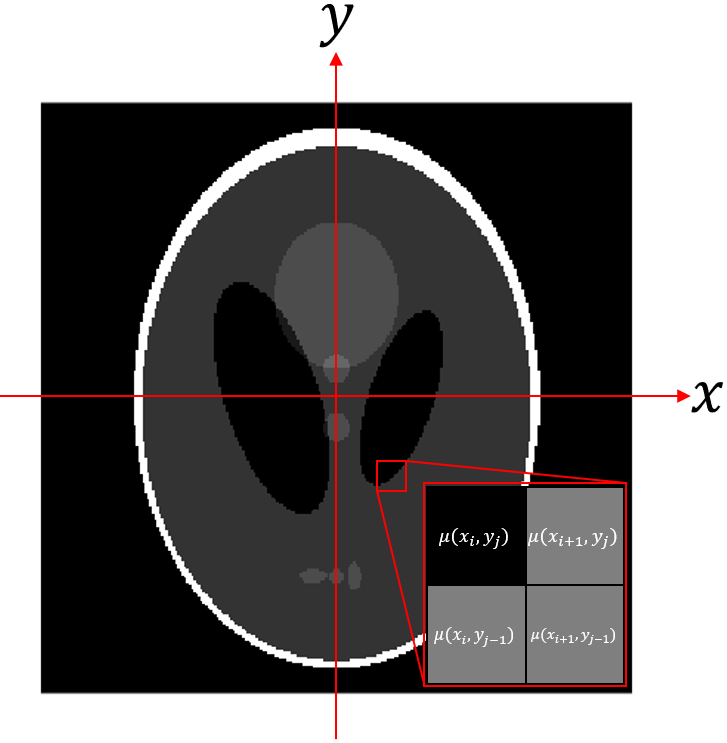
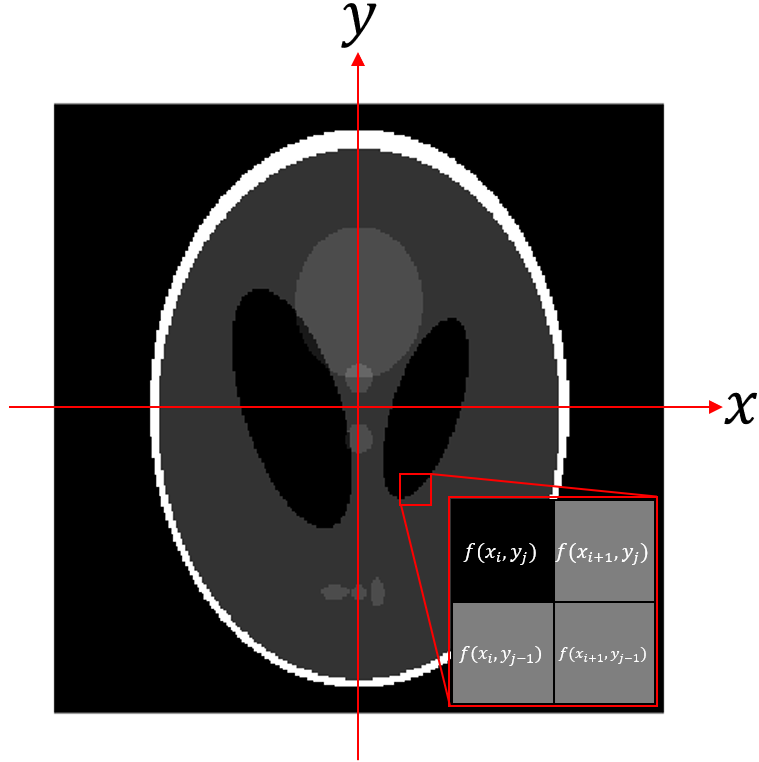
CT_5, CT_6 update

diff --git a/_posts/2025-07-03-CT_5.md b/_posts/2025-07-03-CT_5.md
@@ -88,7 +88,7 @@ This is shown below.
   margin_bottom = "-4.5em"
   %}
   Imagine the object we want to scan (the patient's cross-section) exists in a fixed, standard (x, y) coordinate system. 
-  The value at any point is given by its LAC, $\mu(x,y)$.
+  The value at any point is given by its LAC, $f(x,y)$ in the fixed patient system $(x,y)$.
   {% include end-side-by-side.html %}
  {% include end-box.html %}
 
@@ -104,6 +104,7 @@ This is shown below.
   Let's introduce our second coordinate system, $(\xi, \eta)$. 
   The crucial part is that this system rotates with the X-ray source and detector. 
   The angle of this rotation, relative to the fixed $(x, y)$ system, is $\gamma$ ($\in [0, 2\pi]$).
+  In this rotating coordinate systme $(\xi, \eta)$, we can rewrite the value on object, $f(x,y)$, into $\mu(\xi, \eta)$.
   {% include end-side-by-side.html %}
  {% include end-box.html %}
 
@@ -117,7 +118,7 @@ This is shown below.
   %}
   The Radon transform mathematically simulates what a single detector "sees". For a given projection angle $\gamma$ ($\in [0, 2\pi]$):
   * It defines a straight line, L, through the object. This line is parallel to the $\eta$-axis and is offset from the center by a distance $\xi_i$. Think of this line as the path of a single X-ray beam.
-  * It then sums up (integrates) all the object's pixel values ($\mu(x,y)$) that lie directly on this line L.
+  * It then sums up (integrates) all the object's pixel values ($\mu(\xi, \eta)$) that lie directly on this line L.
   * This sum becomes a single data point in our sinogram, $p(\xi_i, \gamma)$,corresponding to the detector at position $\xi_i$.
   
   This entire process is repeated for all possible lines (all $\xi$ values) across the object to create one full row of the sinogram for that specific angle $\gamma$. In essence, the Radon Transform is the mathematical way of describing how an object casts an "X-ray shadow" from a specific angle.
@@ -127,11 +128,11 @@ This is shown below.
 {% include end-box.html %}
 
 ## 2-2) Mathematical equation of Radon transform
-So, how do we practically calculate $p(\xi, \gamma)$, the line integral of $\mu(x,y)$?<br> 
+So, how do we practically calculate $p(\xi, \gamma)$, the line integral of $f(x,y)$?<br> 
 The mathematical definition is:<br>
 
 <div class="math-box" markdown="1">
-<center>$$p_{\gamma}(\xi) = p(\xi, \gamma) = \int_{\mathbf{r} \in L(x,y)} \mu(\mathbf{r}) \, d\mathbf{r}, \quad \text{where } \mathbf{r}=\begin{pmatrix}x \\ y \end{pmatrix} \tag{2.1}$$</center>
+<center>$$p_{\gamma}(\xi) = p(\xi, \gamma) = \int_{\mathbf{r} \in L(x,y)} f(\mathbf{r}) \, d\mathbf{r}, \quad \text{where } \mathbf{r}=\begin{pmatrix}x \\ y \end{pmatrix} \tag{2.1}$$</center>
 </div>
 
 $$p_{\gamma}(\xi) = \mathcal{R}_2 \{ f(x,y) \}$$ is called 2D Radon transform.
@@ -166,8 +167,9 @@ The Radon transform, $p(\xi, \gamma)$, can now be expressed in the much more con
 <div class="math-box" markdown="1">
 <center>$$\begin{split}
 p(\xi, \gamma) &= p_{\gamma}(\xi) \\
-&= \int_{\mathbf{r} \in L(x,y)} \mu(\mathbf{r}) d\mathbf{r}\\
-&= \int \mu(\xi \cos \gamma - \eta \sin \gamma, \xi \sin \gamma + \eta \cos \gamma) d\eta\
+&= \int_{\mathbf{r} \in L(x,y)} f(\mathbf{r}) \mathrm{d}\mathbf{r}\\
+&= \int \mu(\xi \cos \gamma - \eta \sin \gamma, \xi \sin \gamma + \eta \cos \gamma) \mathrm{d}\eta \\
+&= \int \mu(\xi, \eta, E) \mathrm{d}\eta
 \end{split} \tag{2.3}$$</center>
 </div>
 
@@ -178,7 +180,7 @@ First, let's recall from [4. Probability of detection] that the expected number 
 From this, we derived that the expected number of photons that transmit through the object is:
 
 <div class="math-box" markdown="1">
-<center>$$\text{Number of transmitted photons, }\lambda = \int N_0 S_0(E) e^{-\int \mu_a(\mathbf{r}, E) d\mathbf{r}} dE \tag{2.4}$$</center>
+<center>$$\text{Number of transmitted photons, }\lambda = \int N_0 S_0(E) e^{-\int \mu(\xi, \eta, E) \mathrm{d}\eta} dE \tag{2.4}$$</center>
 </div>
 
 This integral is still complex. 
@@ -186,9 +188,9 @@ To simplify it and connect it directly to the line integral of the Radon transfo
 
 {% include start-box.html class="math-box"%}
 $$\begin{split}
-\lambda &= \int_{E_1}^{E_2} N_0 S_0(E) e^{-\int \mu_a(\mathbf{r}, E) d\mathbf{r}} dE \\
-&= e^{-\int \mu_a(\mathbf{r}, \hat{E}) d\mathbf{r}} \int_{E_1}^{E_2} N_0 S_0(E) dE \\
-&= e^{-\int \mu_a(\mathbf{r}, \hat{E}) d\mathbf{r}} \lambda_0 \quad \text{where, } \lambda_0 = N_0: \text{the expected number of incident photons}
+\lambda &= \int_{E_1}^{E_2} N_0 S_0(E) e^{-\int \mu(\xi, \eta, E) \mathrm{d}\eta} dE \\
+&= e^{-\int \mu(\xi, \eta, \hat{E}) \mathrm{d}\eta} \int_{E_1}^{E_2} N_0 S_0(E) dE \\
+&= e^{-\int \mu(\xi, \eta, \hat{E}) \mathrm{d}\eta} \lambda_0 \quad \text{where, } \lambda_0 = N_0: \text{the expected number of incident photons}
 \end{split} \tag{2.5}$$
 
  {% include start-box.html class="math-box-inner" font_size="0.8em" %}
@@ -203,7 +205,7 @@ Here, $E_1$ and $E_2$ are the minimum and maximum photon energies, and $\lambda_
 By taking the natural logarithm and rearranging the equation, we can isolate the term we are truly interested in:
 
 {% include start-box.html class="math-box"%}
-<center>$$-\ln \left( \frac{\lambda}{\lambda_0} \right) = \int \mu_a(\mathbf{r}, \hat{E}) d\mathbf{r} \tag{2.5}$$</center>
+<center>$$-\ln \left( \frac{\lambda}{\lambda_0} \right) = \int \mu(\xi, \eta, \hat{E}) \mathrm{d}\eta \tag{2.6}$$</center>
  {% include start-box.html class="math-box-inner" font_size="0.8em" %}
  This equation is the very foundation of CT reconstruction:
  * The left side is a value we can measure. It's calculated from the initial number of photons ($\lambda_0$) and the number of photons that our detector measures ($\lambda$).
@@ -217,7 +219,7 @@ However, the equation so far is for an ideal case.
 In reality, we must account for quantum noise, $\epsilon$, in the number of transmitted photons, $\lambda$.
 
 <div class="math-box" markdown="1">
-<center>$$\text{Practical Radon transform}: -\ln \left( \frac{\lambda + \epsilon}{\lambda_0} \right) = \int \mu_a(\mathbf{r}, \hat{E}) d\mathbf{r} \tag{2.6}$$</center>
+<center>$$\text{Practical Radon transform}: -\ln \left( \frac{\lambda + \epsilon}{\lambda_0} \right) = \int \mu(\xi, \eta, \hat{E}) \mathrm{d}\eta \tag{2.7}$$</center>
 </div>
 
 Up to this point, we have successfully linked the incident photons to the Radon transform, which represents attenuation. 
@@ -227,7 +229,7 @@ This $\hat{E}$ affects the Radon transform in the following way.
 When we calculate a single projection $p_i$, the formula looks like this:
 
 <div class="math-box" markdown="1">
-<center>$$p_i = -\ln \frac{\lambda_i + \epsilon_i}{\lambda_0} \approx \int \mu_a (\mathbf{r}, \hat{E}_i) \, d\mathbf{r} \tag{2.7}$$</center>
+<center>$$p_i = -\ln \left( \frac{\lambda_i + \epsilon_i}{\lambda_0} \right) \approx \int \mu(\xi, \eta, \hat{E}) \mathrm{d}\eta \tag{2.8}$$</center>
 </div>
 
 The core problem is that the effective energy $\hat{E}_i$ is not a constant. 

diff --git a/_posts/2025-07-08-CT_6.md b/_posts/2025-07-08-CT_6.md
@@ -119,6 +119,7 @@ However, the Fourier transform does not change the nature of the coordinate syst
 This means that in step 2 a change in coordinates has to be carried out because the Radon transform $p_{\gamma}(\xi)$ and its Fourier transform $P_{\gamma}(q)$ are given in polar coordinates $(\xi, \gamma)$ and $(q,\gamma)$ respectively. 
 Figure below shows this relation. 
 
+{% include start-box.html class="math-box"%}
 <figure style="display: flex; flex-direction: column; align-items: center; margin-top: 0.5em; margin-bottom: 0.5em;">
   <img src="../images/2025-07-08-CT_6/image-20250708165149058.png" alt="Illustration of photoelectric interaction" 
        style="width: 70%; height: auto;">
@@ -127,19 +128,72 @@ Figure below shows this relation.
    </figcaption>
 </figure> 
 
+The spatial vector $\mathbf{\xi} = \xi(\xi, \gamma)$ points in the same direction as the spectral vector $\mathbf{q} = \mathbf{q}(q,\gamma)$.
+This is due to the rotational variance of the Fourier transform.
+As shown in Fig.1.2, we can make relationship between $\mathbf{q}$ and $(u,v)$ as below:
+<center>$$ \begin{split} u=q \cos (\gamma) \\ v = q \sin (\gamma) \end{split} \tag{1.6} $$</center>
+{% include end-box.html %}
+
 The transformations in the vertical direction are given by the Fourier transform in each case.
 The transformation from left to right is given by a change in coordinates from polar to Cartesian.
-
-As shown in Fig.1.2, the spatial vector $\mathbf{\xi} = \mathbf{\xi}(\xi, \gamma)$ points in the same direction as the spectral vector $\mathbf{q} = \mathbf{q}(q, \gamma)$. This is due to the rotational variance of the Fourier transform.
 
 With these key ideas in mind, let's now examine the Fourier Slice Theorem step-by-step.
 
 # 2.Fourier Slice Theorem
 
+## 2-1) Step 1: Calculate $P_{\gamma}(q)$, the Fourier transform of $p_{\gamma}(\xi)$
+As a first step of the Fourier Slice Theorem, let's calculate $P_{\gamma}(q)$.
+
+{% include start-box.html class="math-box"%}
+<center>$$P_{\gamma}(q) = \int_{-\infty}^{\infty} p_{\gamma}(\xi) e^{-2\pi i q \xi} \mathrm{d}\xi \tag{2.1}$$</center>
+{% include end-box.html %}
+
+It is important to remember that $P_{\gamma}(q)$ in equation (2.1) is calculated from the projection measurement, which is the line integral, as shown below:
+
+{% include start-box.html class="math-box"%}
+<center>$$ P_{\gamma}(q) = \int_{-\infty}^{\infty} \left( \int_{-\infty}^{\infty} \mu(\xi, \eta) d\eta \right) e^{-2\pi i q \xi} \mathrm{d}\xi \tag{2.2} $$</center>
+{% include end-box.html %}
+
+It should be noted that the integration limits for the inner term of equation (2.2) are defined this way under the assumption that no attenuation occurs outside the object (i.e., the attenuation coefficient is zero).
 
 
+## 2-2) Step 2: Construction of the Fourier transform of $f$ from $P$, Change of coordinate system
+As a second step, the coordinate system has to be changed from the rotating sampling system $(\xi, \eta)$ to the patient system $(x,y)$.
+Since both systems are of Cartesian, the integration element, $\mathrm{d}\xi \mathrm{d}\eta$, can be directly replaced with $\mathrm{d}x \mathrm{d}y$ as below:
 
+{% include start-box.html class="math-box"%}
+<center>$$P_{\gamma}(q) = \int_{-\infty}^{\infty} \int_{-\infty}^{\infty} \mu \left( \xi(x,y), \eta(x,y) \right) e^{-2\pi i q (\mathbf{r}^T \cdot \mathbf{n}_{\xi})} \mathrm{d}x\mathrm{d}y \tag{2.3}$$</center>
+{% include end-box.html %}
 
-<div class="math-box" markdown="1">
-<center>$$P(q,\gamma) = P_{\gamma}(q) = \int_{\infty}^{\infty} p_{\gamma}(\xi) e^{-2\pi q \xi} d\xi \tag{1.6}$$</center>
-</div>
+The replacement of $\xi = \mathbf{r}^T \cdot \mathbf{n}_{\xi}$ can be found at equation (1.3). 
+Also, $\mu \left( \xi(x,y), \eta(x,y) \right)$ can be replaced by $f(x,y)$ in fixed system. 
+
+{% include start-box.html class="math-box"%}
+<center>$$P_{\gamma}(q) = \int_{-\infty}^{\infty} \int_{-\infty}^{\infty} f(x,y) e^{-2\pi i q (\mathbf{r}^T \cdot \mathbf{n}_{\xi})} \mathrm{d}x\mathrm{d}y \tag{2.4}$$</center>
+{% include end-box.html %}
+
+To prove that equation (2.3) is identical to the two-dimensional Fourier transform of the object, one starts with the Cartesian formulation of the Fourier transform of the tomographic section $f(x,y)$ in the fixed patient coordiante system. 
+
+{% include start-box.html class="math-box"%}
+<center>$$\begin{split} F(u,v) &= \int_{-\infty}^{\infty} \int_{-\infty}^{\infty} f(x,y) e^{-2\pi i (xu+yv)} \mathrm{d}x\mathrm{d}y \\ \\
+&= \int_{-\infty}^{\infty} \int_{-\infty}^{\infty} f(x,y) e^{-2\pi i (xq \cos (\gamma) + yq \sin (\gamma))} \mathrm{d}x\mathrm{d}y \\ \\ 
+&= \int_{-\infty}^{\infty} \int_{-\infty}^{\infty} f(x,y) e^{-2\pi i q(\mathbf{r}^T \cdot \mathbf{n}_{\xi})} \mathrm{d}x\mathrm{d}y \end{split} \tag{2.5}$$</center>
+{% include end-box.html %}
+
+The replacement of $u = q \cos (\gamma)$ and $v = q \sin (\gamma)$ can be found at equation (1.6).
+The result of equation (2.5) is equal to equation (2.3), whereby it is say below:
+
+{% include start-box.html class="math-box"%}
+<center>$$\begin{split} F(u,v)|_{\begin{split} u=q \cos (\gamma) \\ v = q \sin (\gamma) \end{split}} = P_{\gamma}(q) \end{split} \tag{2.6}$$</center>
+{% include end-box.html %}
+
+Below is the core result of the Fourier Slice Theorem and the most important result for all Fourier-based reconstruction methods.
+
+<figure style="display: flex; flex-direction: column; align-items: center; margin-top: 0.5em; margin-bottom: 0.5em;">
+  <img src="../images/2025-07-08-CT_6/image-20250715170325971.png" alt="Illustration of photoelectric interaction" 
+       style="width: 70%; height: auto;">
+   <figcaption style="font-size: 20px; margin-top: -0.5em;">
+   Fig.2.1 Schematic of the Fourier Slice Theorem.
+   </figcaption>
+</figure> 
+
